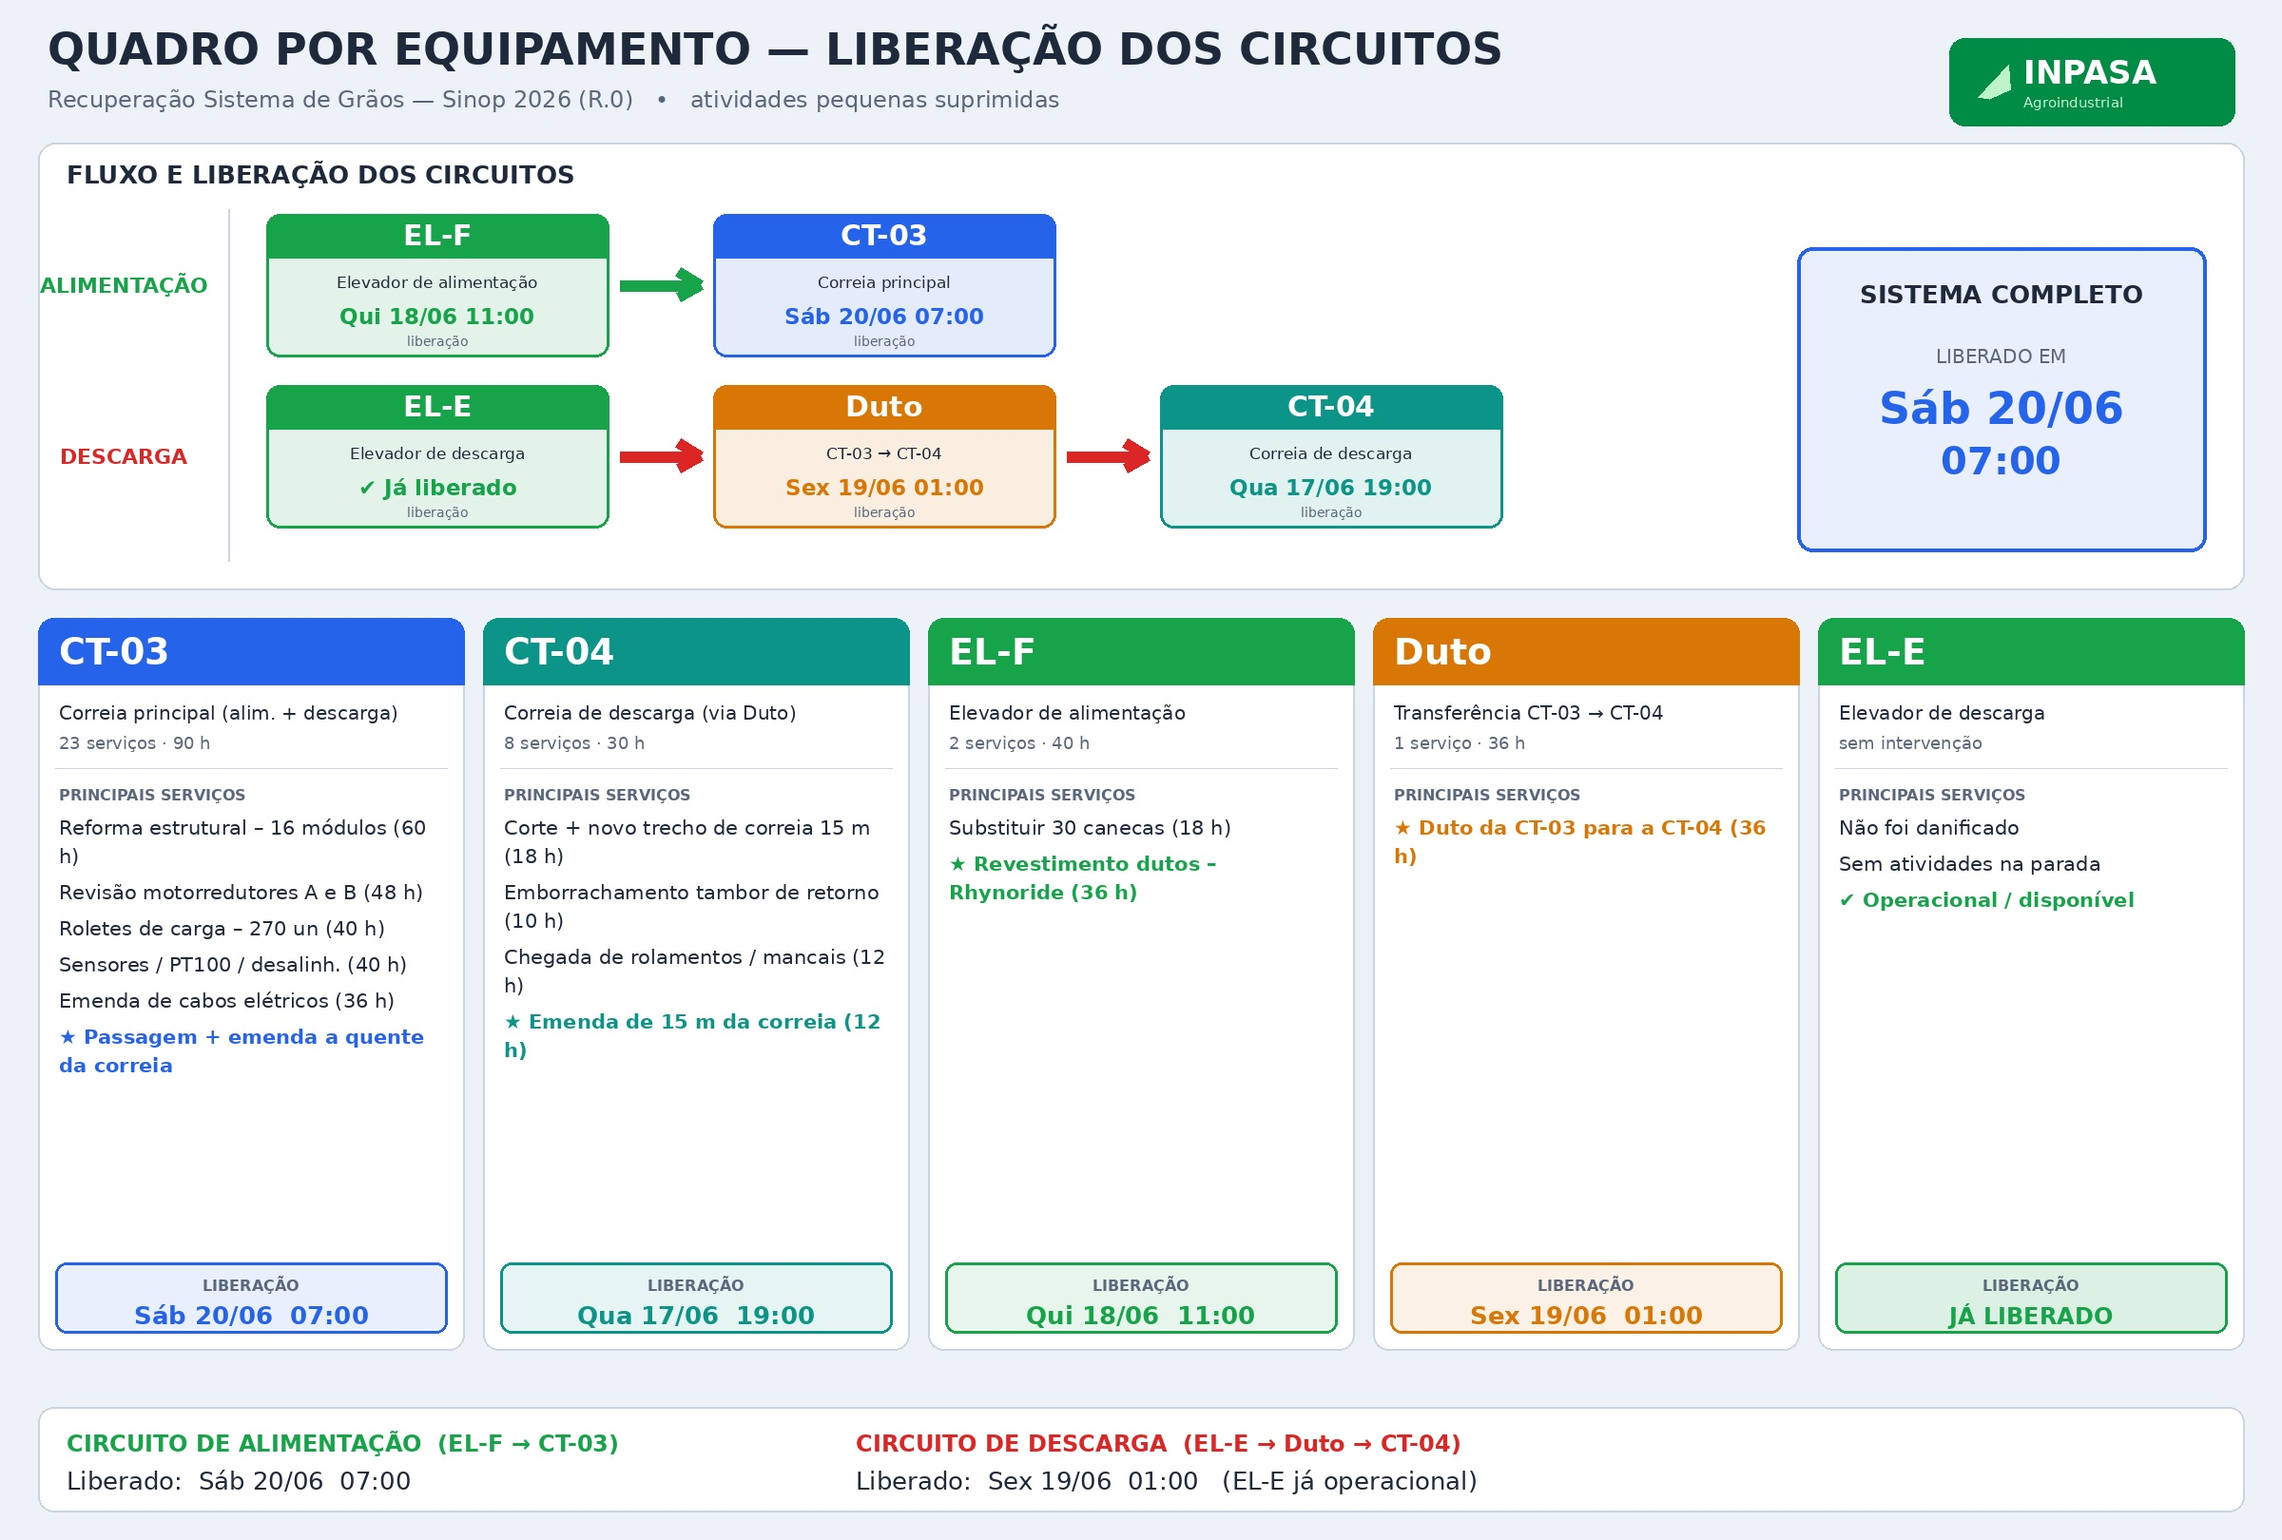
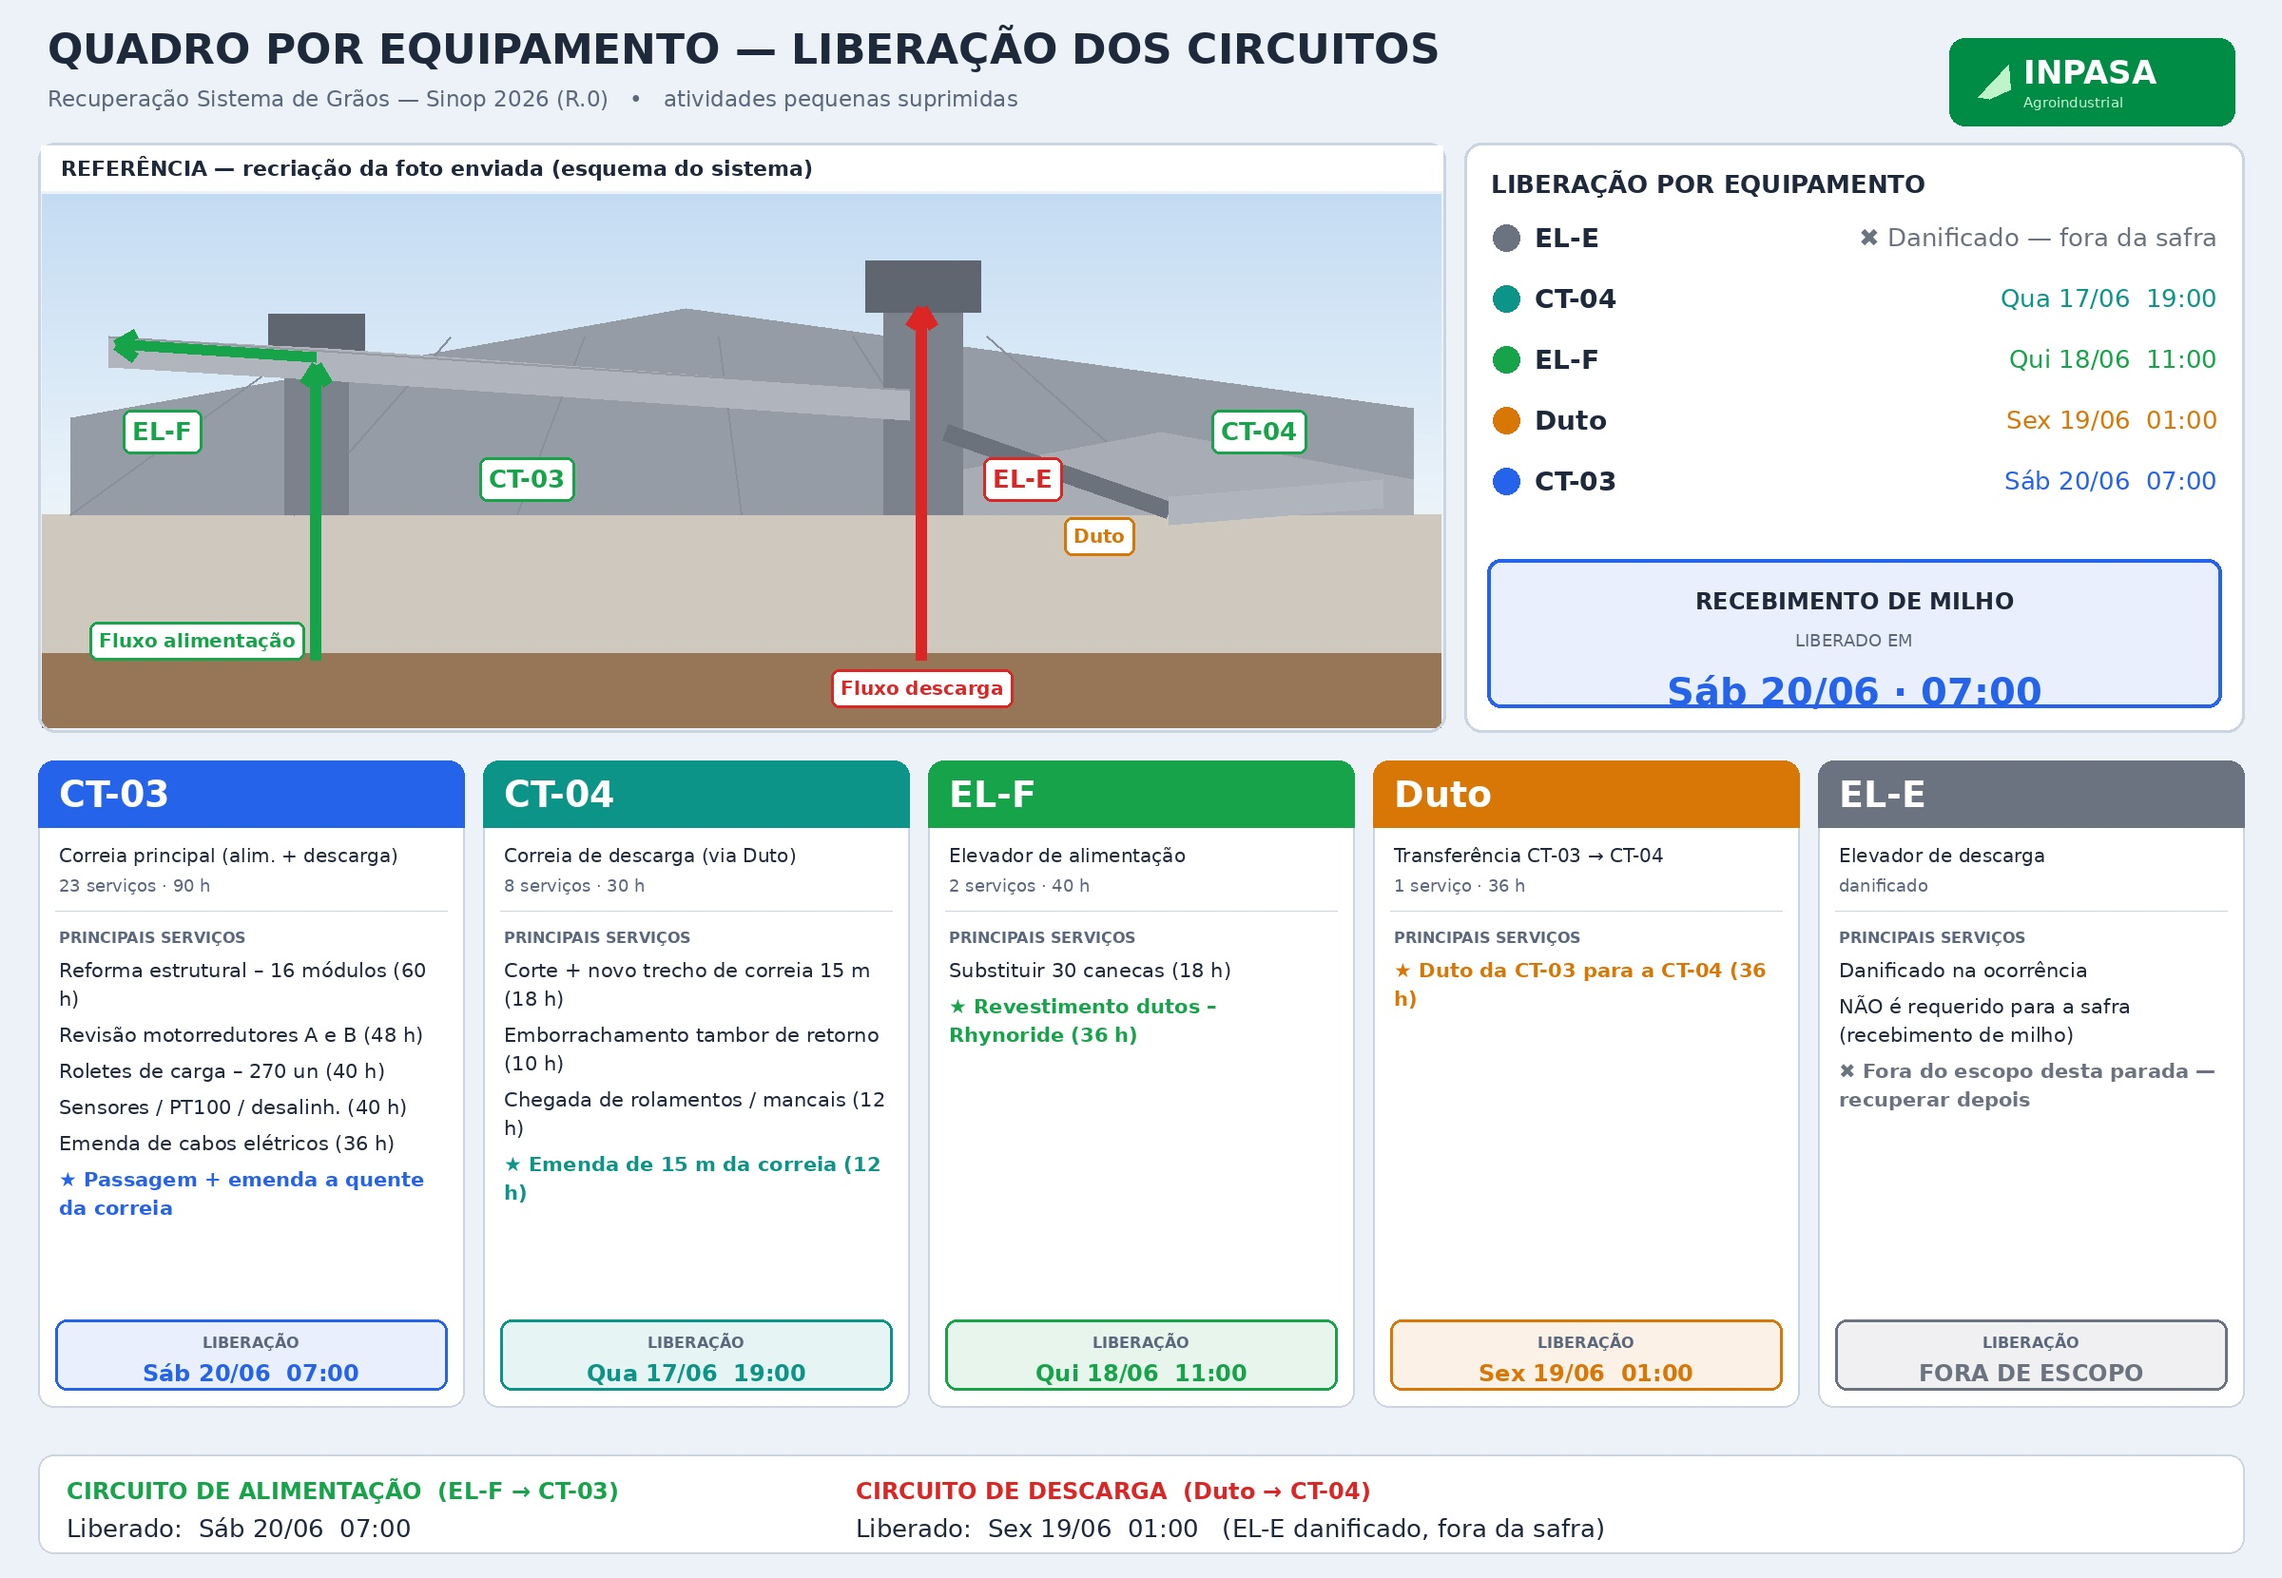
Update board: EL-E damaged/out-of-scope for harvest, recreated photo scene
Claude-Session: https://claude.ai/code/session_01VKEduwErAXRbeUvTFe6jDD

diff --git a/make_quadro_equipamentos.py b/make_quadro_equipamentos.py
@@ -6,110 +6,143 @@ FB="/usr/share/fonts/truetype/dejavu/DejaVuSans-Bold.ttf"
 FR="/usr/share/fonts/truetype/dejavu/DejaVuSans.ttf"
 def F(s,b=True): return ImageFont.truetype(FB if b else FR, s)
 
-# ---- tema claro ----
 PAGE=(237,242,248); CARD=(255,255,255); BORDER=(203,213,225)
 INK=(30,41,59); MUTED=(90,103,124); WHITE=(255,255,255)
-GREEN=(22,163,74); RED=(220,38,38); BLUE=(37,99,235); AMBER=(217,119,6); TEAL=(13,148,136)
+GREEN=(22,163,74); RED=(220,38,38); BLUE=(37,99,235); AMBER=(217,119,6); TEAL=(13,148,136); GRAY=(107,114,128)
 INPASA=(0,140,69)
 
-W,H=2400,1620
+W,H=2400,1660
 img=Image.new("RGB",(W,H),PAGE); d=ImageDraw.Draw(img)
-def t(xy,s,f,fill,anchor="lm"): d.text(xy,s,font=f,fill=fill,anchor=anchor)
-def rr(b,r,fill,outline=None,wd=2): d.rounded_rectangle(b,radius=r,fill=fill,outline=outline,width=wd)
-def tint(c,p=0.85):
-    return tuple(int(c[i]+(255-c[i])*p) for i in range(3))
-
-def arrow(p1,p2,color,wd=12,head=26):
-    d.line([p1,p2],fill=color,width=wd)
+def t(xy,s,f,fill,anchor="lm",dd=d): dd.text(xy,s,font=f,fill=fill,anchor=anchor)
+def rr(b,r,fill,outline=None,wd=2,dd=d): dd.rounded_rectangle(b,radius=r,fill=fill,outline=outline,width=wd)
+def tint(c,p=0.85): return tuple(int(c[i]+(255-c[i])*p) for i in range(3))
+def arrow(p1,p2,color,wd=12,head=24,dd=d):
+    dd.line([p1,p2],fill=color,width=wd)
     ang=math.atan2(p2[1]-p1[1],p2[0]-p1[0])
     for a in (ang+math.radians(148),ang-math.radians(148)):
-        d.line([p2,(p2[0]+head*math.cos(a),p2[1]+head*math.sin(a))],fill=color,width=wd)
+        dd.line([p2,(p2[0]+head*math.cos(a),p2[1]+head*math.sin(a))],fill=color,width=wd)
 
-# ===== Logo Inpasa (wordmark) =====
+# ============ ILUSTRAÇÃO (recriação da foto) ============
+def draw_scene(pw,ph):
+    s=Image.new("RGB",(pw,ph),(210,228,245)); sd=ImageDraw.Draw(s)
+    hy=int(ph*0.60)
+    # céu gradiente
+    for y in range(hy):
+        f=y/hy; col=(int(196+ (236-196)*f),int(220+(244-220)*f),int(243+(250-243)*f))
+        sd.line([(0,y),(pw,y)],fill=col)
+    # chão
+    sd.rectangle((0,hy,pw,ph),fill=(206,200,190))
+    sd.rectangle((0,int(ph*0.86),pw,ph),fill=(150,118,86))
+    # telhado grande do barracão (fundo)
+    sd.polygon([(30,235),(pw*0.46,120),(pw-30,225),(pw-30,hy),(30,hy)],fill=(150,156,166))
+    for i in range(6):
+        xx=30+i*(pw-60)/6
+        sd.line([(xx,hy),(xx*0.6+pw*0.46*0.4,150)],fill=(138,144,154),width=2)
+    # barracão direito menor
+    sd.polygon([(pw*0.62,300),(pw*0.80,250),(pw-30,300),(pw-30,hy),(pw*0.62,hy)],fill=(168,172,180))
+    # torre EL-F (esquerda)
+    sd.rectangle((255,150,322,hy),fill=(124,130,140))
+    sd.rectangle((238,126,339,168),fill=(96,102,112))
+    # torre EL-E (direita, mais alta) + casa de cabeça
+    sd.rectangle((885,98,968,hy),fill=(124,130,140))
+    sd.rectangle((866,70,987,124),fill=(96,102,112))
+    # galeria CT-03 (entre torres + estende à esquerda)
+    sd.polygon([(70,150),(300,162),(912,206),(912,238),(300,196),(70,182)],fill=(176,180,188))
+    sd.line([(70,150),(912,206)],fill=(150,155,164),width=3)
+    # duto EL-E -> CT-04
+    sd.line([(950,250),(1185,332)],fill=(108,114,124),width=20)
+    # galeria CT-04 (inferior direita)
+    sd.polygon([(1185,318),(1410,300),(1410,330),(1185,348)],fill=(176,180,188))
+    return s
+
+def lbl(xy,s,txtcol,border,fnt,anchor="lm",dd=d):
+    w=dd.textlength(s,font=fnt); h=fnt.size
+    x,y=xy
+    if anchor=="mm": x-=w/2
+    pad=10
+    rr((x-pad,y-h/2-pad,x+w+pad,y+h/2+pad),8,WHITE,border,3,dd=dd)
+    dd.text((x,y),s,font=fnt,fill=txtcol,anchor="lm",dd=dd) if False else dd.text((x,y-h/2),s,font=fnt,fill=txtcol)
+
+# logo Inpasa
 lx2=W-50; lw=300; lh=92; lx1=lx2-lw; ly1=40; ly2=ly1+lh
 rr((lx1,ly1,lx2,ly2),16,INPASA)
-# folha
-cx=lx1+44; cy=(ly1+ly2)//2
-d.polygon([(cx-14,cy+16),(cx+18,cy-18),(cx+20,cy+8),(cx-2,cy+18)],fill=(190,242,200))
-t((lx1+78,cy-10),"INPASA",F(34),WHITE,anchor="lm")
-t((lx1+78,cy+22),"Agroindustrial",F(15,False),(200,240,210),anchor="lm")
+cx=lx1+44; cyl=(ly1+ly2)//2
+d.polygon([(cx-14,cyl+16),(cx+18,cyl-18),(cx+20,cyl+8),(cx-2,cyl+18)],fill=(190,242,200))
+t((lx1+78,cyl-10),"INPASA",F(34),WHITE,anchor="lm"); t((lx1+78,cyl+22),"Agroindustrial",F(15,False),(200,240,210),anchor="lm")
 
-# ===== Header =====
-t((50,52),"QUADRO POR EQUIPAMENTO — LIBERAÇÃO DOS CIRCUITOS",F(46),INK)
-t((50,104),"Recuperação Sistema de Grãos — Sinop 2026 (R.0)   •   atividades pequenas suprimidas",F(24,False),MUTED)
+# header
+t((50,52),"QUADRO POR EQUIPAMENTO — LIBERAÇÃO DOS CIRCUITOS",F(44),INK)
+t((50,104),"Recuperação Sistema de Grãos — Sinop 2026 (R.0)   •   atividades pequenas suprimidas",F(23,False),MUTED)
 
-# ===== Diagrama de fluxo (sem sobreposição) =====
-DX,DY,DW,DH=40,150,W-80,470
-rr((DX,DY,DX+DW,DY+DH),18,CARD,BORDER,2)
-t((DX+30,DY+34),"FLUXO E LIBERAÇÃO DOS CIRCUITOS",F(26),INK)
+# ---- painel ilustração ----
+PX,PY,PW,PH=40,150,1480,620
+scene=draw_scene(PW-8,PH-58)
+img.paste(scene,(PX+4,PY+54))
+rr((PX,PY,PX+PW,PY+PH),18,None,BORDER,3)
+d.rectangle((PX+3,PY+3,PX+PW-3,PY+50),fill=CARD)
+t((PX+24,PY+27),"REFERÊNCIA — recriação da foto enviada (esquema do sistema)",F(22),INK)
+# rótulos sobre a cena (coords absolutas)
+sx,sy=PX+4,PY+54
+fL=F(26); fS=F(20)
+def slbl(x,y,s,col,fnt=fL):
+    w=d.textlength(s,font=fnt); pad=10
+    rr((sx+x-pad,sy+y-fnt.size//2-pad,sx+x+w+pad,sy+y+fnt.size//2+pad),8,WHITE,col,3)
+    t((sx+x,sy+y),s,fnt,col,anchor="lm")
+slbl(95,250,"EL-F",GREEN)
+slbl(60,470,"Fluxo alimentação",GREEN,fS)
+slbl(470,300,"CT-03",GREEN)
+slbl(1000,300,"EL-E",RED)
+slbl(1085,360,"Duto",AMBER,fS)
+slbl(1240,250,"CT-04",GREEN)
+slbl(840,520,"Fluxo descarga",RED,fS)
+# setas de fluxo
+arrow((sx+288,sy+PH-130),(sx+288,sy+180),GREEN)
+arrow((sx+288,sy+172),(sx+78,sy+158),GREEN)
+arrow((sx+925,sy+PH-130),(sx+925,sy+120),RED)
 
-def node(cx,cy,nome,tipo,libera,cor,liberado=False):
-    bw,bh=360,150
-    x1,y1,x2,y2=cx-bw//2,cy-bh//2,cx+bw//2,cy+bh//2
-    rr((x1,y1,x2,y2),14,tint(cor,0.88),cor,3)
-    d.rounded_rectangle((x1,y1,x2,y1+46),radius=14,fill=cor)
-    d.rectangle((x1,y1+24,x2,y1+46),fill=cor)
-    t((cx,y1+23),nome,F(30),WHITE,anchor="mm")
-    t((cx,y1+72),tipo,F(17,False),INK,anchor="mm")
-    lab="✔ "+libera if liberado else libera
-    t((cx,y1+108),lab,F(23),cor,anchor="mm")
-    t((cx,y1+134),"liberação",F(14,False),MUTED,anchor="mm")
-    return (x1,y1,x2,y2)
+# ---- painel direito: liberação resumida ----
+RX=PX+PW+20; RW=W-40-RX
+rr((RX,PY,RX+RW,PY+PH),18,CARD,BORDER,3)
+t((RX+28,PY+44),"LIBERAÇÃO POR EQUIPAMENTO",F(26),INK)
+rows=[("EL-E","✖ Danificado — fora da safra",GRAY),
+      ("CT-04","Qua 17/06  19:00",TEAL),
+      ("EL-F","Qui 18/06  11:00",GREEN),
+      ("Duto","Sex 19/06  01:00",AMBER),
+      ("CT-03","Sáb 20/06  07:00",BLUE)]
+yy=PY+100
+for nome,dt,col in rows:
+    d.ellipse((RX+30,yy-14,RX+58,yy+14),fill=col)
+    t((RX+74,yy),nome,F(28),INK,anchor="lm")
+    t((RX+RW-28,yy),dt,F(26,False),col,anchor="rm")
+    yy+=64
+# hero milho
+hy1=yy+18
+rr((RX+24,hy1,RX+RW-24,PY+PH-26),14,tint(BLUE,0.9),BLUE,4)
+t(((2*RX+RW)//2,hy1+44),"RECEBIMENTO DE MILHO",F(24),INK,anchor="mm")
+t(((2*RX+RW)//2,hy1+86),"LIBERADO EM",F(18,False),MUTED,anchor="mm")
+t(((2*RX+RW)//2,hy1+140),"Sáb 20/06 · 07:00",F(40),BLUE,anchor="mm")
 
-laneA=DY+150; laneB=DY+330
-# lane labels
-t((DX+90,laneA),"ALIMENTAÇÃO",F(22),GREEN,anchor="mm")
-t((DX+90,laneB),"DESCARGA",F(22),RED,anchor="mm")
-d.line([(DX+200,DY+70),(DX+200,DY+DH-30)],fill=BORDER,width=2)
-
-ax=DX+420; gap=470
-# Alimentação: EL-F -> CT-03
-nA1=node(ax,laneA,"EL-F","Elevador de alimentação","Qui 18/06 11:00",GREEN)
-nA2=node(ax+gap,laneA,"CT-03","Correia principal","Sáb 20/06 07:00",BLUE)
-arrow((nA1[2]+12,laneA),(nA2[0]-14,laneA),GREEN)
-# Descarga: EL-E -> Duto -> CT-04
-nB1=node(ax,laneB,"EL-E","Elevador de descarga","Já liberado",GREEN,liberado=True)
-nB2=node(ax+gap,laneB,"Duto","CT-03 → CT-04","Sex 19/06 01:00",AMBER)
-nB3=node(ax+2*gap,laneB,"CT-04","Correia de descarga","Qua 17/06 19:00",TEAL)
-arrow((nB1[2]+12,laneB),(nB2[0]-14,laneB),RED)
-arrow((nB2[2]+12,laneB),(nB3[0]-14,laneB),RED)
-
-# Hero sistema completo (à direita)
-hx1=DX+DW-470; hy1=DY+110; hx2=DX+DW-40; hy2=DY+DH-40
-rr((hx1,hy1,hx2,hy2),16,tint(BLUE,0.9),BLUE,4)
-t(((hx1+hx2)//2,hy1+50),"SISTEMA COMPLETO",F(26),INK,anchor="mm")
-t(((hx1+hx2)//2,hy1+115),"LIBERADO EM",F(20,False),MUTED,anchor="mm")
-t(((hx1+hx2)//2,hy1+170),"Sáb 20/06",F(46),BLUE,anchor="mm")
-t(((hx1+hx2)//2,hy1+225),"07:00",F(40),BLUE,anchor="mm")
-
-# ===== Cards detalhados =====
+# ============ Cards ============
 cards=[
  ("CT-03","Correia principal (alim. + descarga)",BLUE,"Sáb 20/06  07:00","23 serviços · 90 h",False,
-   ["Reforma estrutural – 16 módulos (60 h)",
-    "Revisão motorredutores A e B (48 h)",
-    "Roletes de carga – 270 un (40 h)",
-    "Sensores / PT100 / desalinh. (40 h)",
-    "Emenda de cabos elétricos (36 h)",
-    "★ Passagem + emenda a quente da correia"]),
+   ["Reforma estrutural – 16 módulos (60 h)","Revisão motorredutores A e B (48 h)",
+    "Roletes de carga – 270 un (40 h)","Sensores / PT100 / desalinh. (40 h)",
+    "Emenda de cabos elétricos (36 h)","★ Passagem + emenda a quente da correia"]),
  ("CT-04","Correia de descarga (via Duto)",TEAL,"Qua 17/06  19:00","8 serviços · 30 h",False,
-   ["Corte + novo trecho de correia 15 m (18 h)",
-    "Emborrachamento tambor de retorno (10 h)",
-    "Chegada de rolamentos / mancais (12 h)",
-    "★ Emenda de 15 m da correia (12 h)"]),
+   ["Corte + novo trecho de correia 15 m (18 h)","Emborrachamento tambor de retorno (10 h)",
+    "Chegada de rolamentos / mancais (12 h)","★ Emenda de 15 m da correia (12 h)"]),
  ("EL-F","Elevador de alimentação",GREEN,"Qui 18/06  11:00","2 serviços · 40 h",False,
-   ["Substituir 30 canecas (18 h)",
-    "★ Revestimento dutos – Rhynoride (36 h)"]),
+   ["Substituir 30 canecas (18 h)","★ Revestimento dutos – Rhynoride (36 h)"]),
  ("Duto","Transferência CT-03 → CT-04",AMBER,"Sex 19/06  01:00","1 serviço · 36 h",False,
    ["★ Duto da CT-03 para a CT-04 (36 h)"]),
- ("EL-E","Elevador de descarga",GREEN,"JÁ LIBERADO","sem intervenção",True,
-   ["Não foi danificado",
-    "Sem atividades na parada",
-    "✔ Operacional / disponível"]),
+ ("EL-E","Elevador de descarga",GRAY,"FORA DE ESCOPO","danificado",True,
+   ["Danificado na ocorrência","NÃO é requerido para a safra (recebimento de milho)",
+    "✖ Fora do escopo desta parada — recuperar depois"]),
 ]
-cy0=DY+DH+30
+cy0=PY+PH+30
 cardW=(W-80-4*20)//5
-cardH=H-cy0-200
-for i,(nome,func,cor,libera,meta,liberado,acts) in enumerate(cards):
+cardH=H-cy0-180
+for i,(nome,func,cor,libera,meta,flag,acts) in enumerate(cards):
     x=40+i*(cardW+20)
     rr((x,cy0,x+cardW,cy0+cardH),16,CARD,BORDER,2)
     d.rounded_rectangle((x,cy0,x+cardW,cy0+70),radius=16,fill=cor)
@@ -121,32 +154,28 @@ for i,(nome,func,cor,libera,meta,liberado,acts) in enumerate(cards):
     yy=cy0+186
     t((x+22,yy),"PRINCIPAIS SERVIÇOS",F(16),MUTED,anchor="lm"); yy+=34
     for a in acts:
-        star=a.strip().startswith("★"); chk=a.strip().startswith("✔")
-        col = cor if star else (GREEN if chk else INK)
-        fnt=F(21, star or chk)
+        star=a.strip().startswith("★"); bad=a.strip().startswith("✖")
+        col = cor if star else (GRAY if bad else INK); fnt=F(21, star or bad)
         words=a.split(); line=""; lines=[]
         for w in words:
             test=(line+" "+w).strip()
             if d.textlength(test,font=fnt)>cardW-44: lines.append(line); line=w
             else: line=test
         lines.append(line)
-        for ln in lines:
-            t((x+22,yy),ln,fnt,col,anchor="lm"); yy+=30
+        for ln in lines: t((x+22,yy),ln,fnt,col,anchor="lm"); yy+=30
         yy+=8
-    # selo liberação
     by=cy0+cardH-92
-    sealbg = tint(GREEN,0.85) if liberado else tint(cor,0.9)
-    rr((x+18,by,x+cardW-18,cy0+cardH-18),12,sealbg,cor,3)
+    rr((x+18,by,x+cardW-18,cy0+cardH-18),12,tint(cor,0.9),cor,3)
     t((x+cardW//2,by+24),"LIBERAÇÃO",F(16),MUTED,anchor="mm")
-    t((x+cardW//2,by+56),libera,F(26 if not liberado else 24),cor,anchor="mm")
+    t((x+cardW//2,by+56),libera,F(24),cor,anchor="mm")
 
-# ===== Faixa resumo circuitos =====
-fy=H-140
-rr((40,fy,W-40,H-30),16,CARD,BORDER,2)
+# faixa resumo
+fy=H-130
+rr((40,fy,W-40,H-26),16,CARD,BORDER,2)
 t((70,fy+38),"CIRCUITO DE ALIMENTAÇÃO  (EL-F → CT-03)",F(24),GREEN,anchor="lm")
 t((70,fy+78),"Liberado:  Sáb 20/06  07:00",F(26,False),INK,anchor="lm")
-t((900,fy+38),"CIRCUITO DE DESCARGA  (EL-E → Duto → CT-04)",F(24),RED,anchor="lm")
-t((900,fy+78),"Liberado:  Sex 19/06  01:00   (EL-E já operacional)",F(26,False),INK,anchor="lm")
+t((900,fy+38),"CIRCUITO DE DESCARGA  (Duto → CT-04)",F(24),RED,anchor="lm")
+t((900,fy+78),"Liberado:  Sex 19/06  01:00   (EL-E danificado, fora da safra)",F(26,False),INK,anchor="lm")
 
 out="/home/user/ICG2025/quadro_equipamentos_liberacao.jpg"
 img.convert("RGB").save(out,"JPEG",quality=94)
